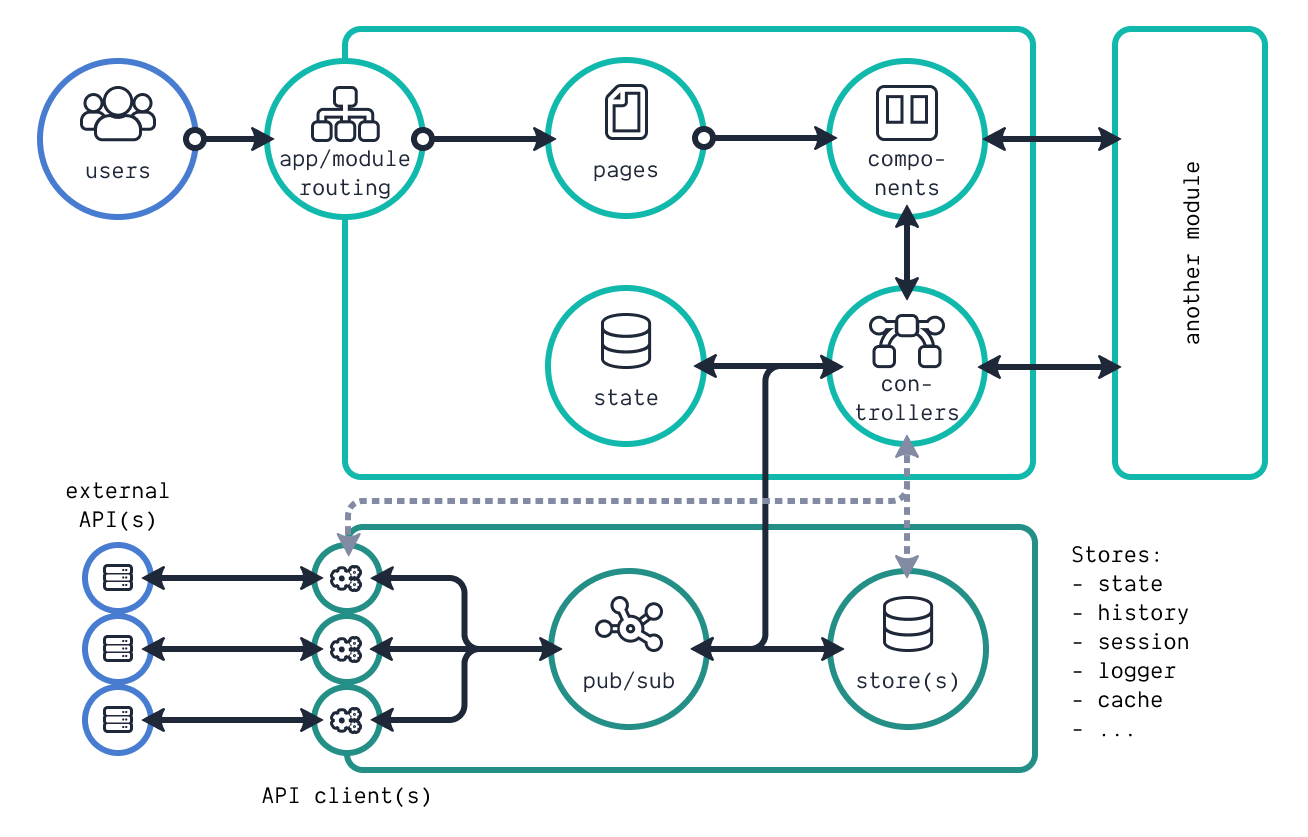
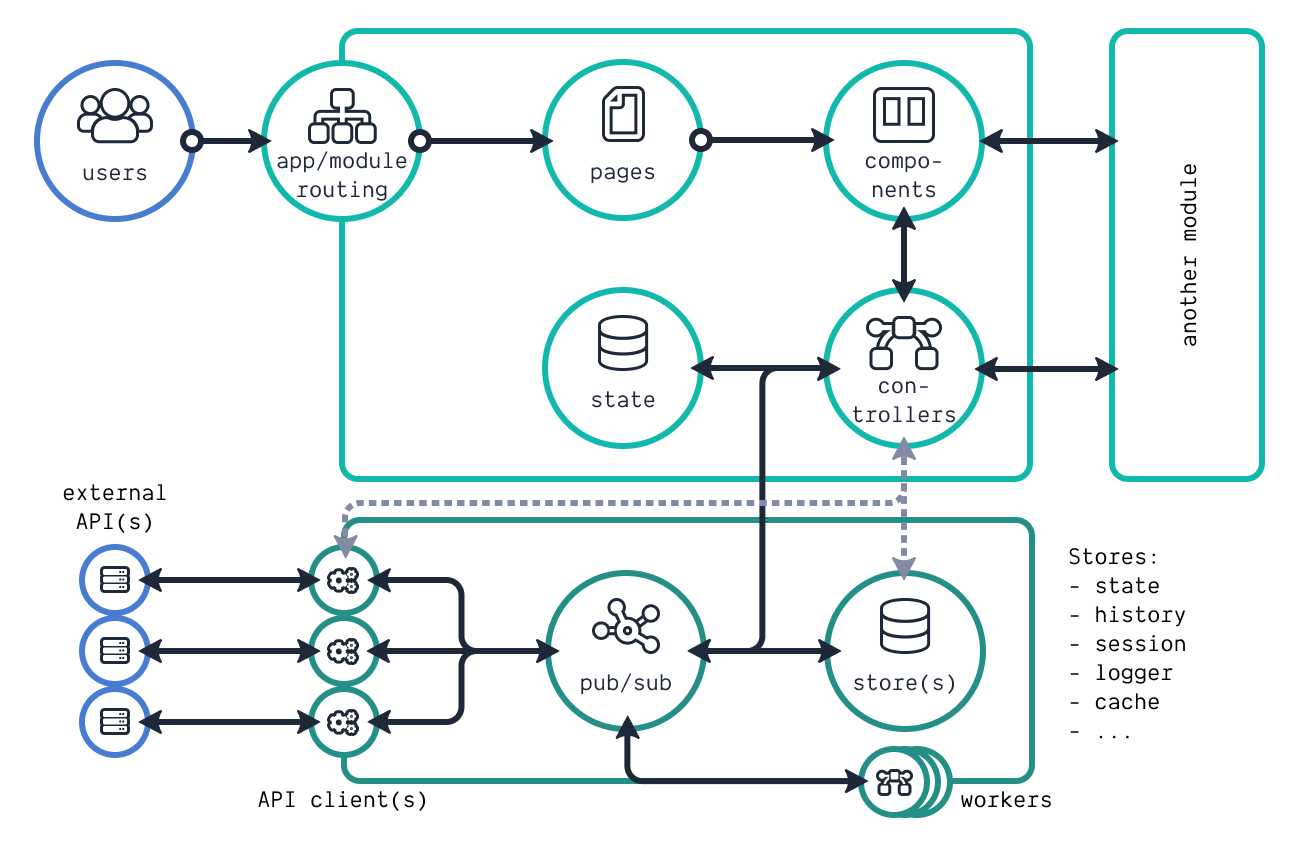
even more updates to the architecture article

diff --git a/src/pages/blog/scalable-front-end-architecture.md b/src/pages/blog/scalable-front-end-architecture.md
@@ -26,7 +26,7 @@ We expect modern front-end applications to do more and more of the heavy lifting
 
 ![High-level scalable front-end architecture](/img/architecture-high-level.png 'High-level scalable front-end architecture')
 
-## High-level architecture
+## Filling in the details
 
 Our goal as front-end developers is to provide value to our users by letting them interact with our work. When they do, the application routing will guide the user to the correct module. Each module can is a separate domain. Business logic shapes these domains. Various modules use this logic, such as retrieving data from a back-end service. This logic is thus placed in the application layer. This is the core setup of a scalable front-end architecture.
 
@@ -39,19 +39,18 @@ src/
 ├── components/
 ├── lib/
 ├── modules/
-├── styles/
-└── __tests__/
+└── styles/
 ```
 
 The remaining directories hold our static `assets` (e.g. images) or helper functions in `lib`. These can differ from simple utility functions to complex auto-layout logic for graphs, or even hold generic React Hooks. Finally, we have a `styles` directory. Many prefer something like `CSS-in-JS` or [styled-components](https://www.styled-components.com/). I prefer a solid CSS architecture, such as [Harry Roberts' ITCSS](https://csswizardry.com/2018/11/itcss-and-skillshare/), that follows the SoC mindset of the architecture.
 
-The above does not look like something special. This is a standard modular approach for development. But, by zooming in on a module and the application layer, the architecture shines. Below I zoomed in on the application layer and a single module. In the rest of this blog post, I discuss each of the different topics and the ideas behind them.
+The above does not look like something special. This is a standard modular approach for development. But, by zooming in on a module and the application layer, the architecture shines. Below I zoomed in on the application layer and a single module. In the rest of this blog post, I discuss each of the different topics and the ideas behind them. The dotted connections are optional connections that you can use when you want a less complex architecture. In this case, the pub/sub and workers are removed from the architecture and controllers directly talk o the stores and API clients.
 
 ![Detailed architecture of a module](/img/architecture-detailed.png 'Detailed architecture of a module')
 
 ## The application backbone
 
-The application layer is the backbone of the architecture. The goal of this part of the application is to be scalable and framework-agnostic. There are three main parts in this layer: API clients, a pub/sub and one or more stores. Stores come in many sizes. At first glance, you might think about the application state. And you are right, that is one store. But what about your user's history stack? This is, in fact, another example of a store.
+The application layer is the backbone of the architecture. The goal of this part of the application is to be scalable and framework-agnostic. There are a few main parts in this layer: API clients, a pub/sub and one or more stores. You can have some [web workers](https://developer.mozilla.org/en-US/docs/Web/API/Web_Workers_API/Using_web_workers) running on this level as well. Stores come in many sizes. At first glance, you might think about the application state. And you are right, that is one store. But what about your user's history stack? This is, in fact, another example of a store.
 
 When you look at stores in this light, you find many of them. Application state, navigation history, session management, API caches and logger history. These should live on an application level. This also means that they should be configured here. You can, for instance, download the [history package on npm](https://www.npmjs.com/package/history) and use this for navigation history. In the store, you can expand the package by adding your functions (e.g. a different `push`). You can now also expose these to the rest of your application.
 
